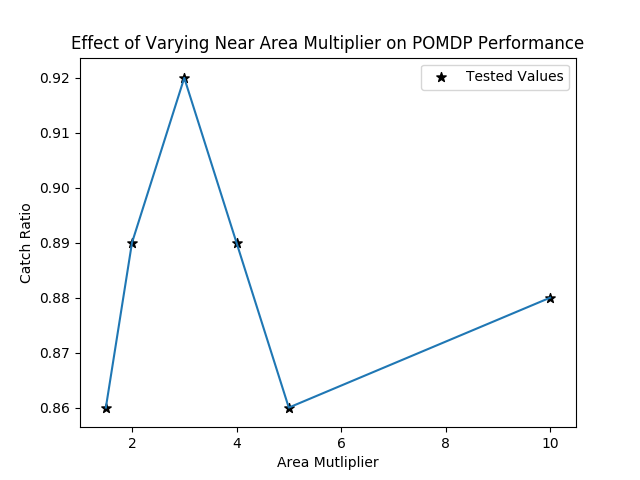
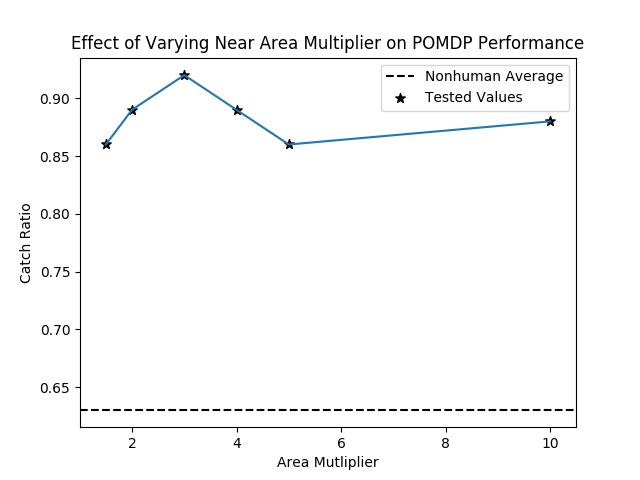
finalizing data

diff --git a/src/dataCheck.py b/src/dataCheck.py
@@ -70,6 +70,7 @@ def poisCheck():
     plt.ylabel('Ratio of Captures to Total Runs'); 
     plt.xlabel('Poisson Mean'); 
     plt.title("Effect of Varying Poisson Means on POMDP Performance"); 
+    plt.axhline(0.63, linestyle='--',color='black',label='Nonhuman Average')
     plt.legend(); 
     plt.savefig('../figs/poisson_graph.png'); 
 
@@ -152,6 +153,7 @@ def amultCheck():
     plt.ylabel('Catch Ratio'); 
     plt.xlabel('Area Mutliplier'); 
     plt.title("Effect of Varying Near Area Multiplier on POMDP Performance"); 
+    plt.axhline(0.63, linestyle='--',color='black',label='Nonhuman Average')
     plt.legend(); 
     plt.savefig('../figs/areaMult_graph.png'); 
 
@@ -236,6 +238,7 @@ def sketchRateCheck():
     plt.xticks([15,30,60,120,240],[15,30,60,120,'inf']); 
     plt.ylabel('Catch Ratio'); 
     plt.xlabel('Sketch Rate (s)'); 
+    plt.axhline(0.63, linestyle='--',color='black',label='Nonhuman Average')
     plt.title("Effect of Varying Sketch Rate on POMDP Performance"); 
     plt.legend(); 
     plt.savefig('../figs/sketchRate_graph.png'); 
@@ -360,6 +363,7 @@ def accuracyDataCheck():
     ax.set_xlabel('Actual Accuracy'); 
     ax.set_ylabel("Capture Rate"); 
     plt.title("Average effect of Human Accuracy on Capture Rate"); 
+    ax.axhline(0.63, linestyle='--',color='black',label='Nonhuman Average')
     plt.legend(); 
     plt.savefig('../figs/acc_true.png')
 
@@ -376,6 +380,7 @@ def accuracyDataCheck():
     ax.set_ylabel("Capture Rate"); 
     ax.set_xlabel("Assumed Accuracy"); 
     plt.title("Average Effect of Assumed Accuracy on Capture Rate")
+    ax.axhline(0.63, linestyle='--',color='black',label='Nonhuman Average')
     plt.legend(); 
     plt.savefig('../figs/acc_think.png'); 
 
@@ -387,6 +392,7 @@ def accuracyDataCheck():
     ax.scatter(rangX,tmp,s=50,marker='*',color='black', label='Tested Values'); 
     ax.set_xlabel("Matched Accuracy"); 
     ax.set_ylabel("Catch Rate"); 
+    ax.axhline(0.63, linestyle='--',color='black',label='Nonhuman Average')
     plt.legend(); 
     plt.title("Effect of Matched Accuracy on Capture Rate"); 
     plt.savefig('../figs/acc_matched.png'); 
@@ -473,6 +479,7 @@ def availabilityDataCheck():
     ax.scatter(rangX,tmp,s=50,marker='*',color='black', label='Tested Values'); 
     ax.set_xlabel('Actual Availability'); 
     ax.set_ylabel("Capture Rate"); 
+    ax.axhline(0.63, linestyle='--',color='black',label='Nonhuman Average')
     plt.title("Average effect of Human Availability on Capture Rate"); 
     plt.legend(); 
     plt.savefig('../figs/avail_true.png')
@@ -489,64 +496,66 @@ def availabilityDataCheck():
     ax.scatter(rangX,tmp,s=50,marker='*',color='black', label='Tested Values'); 
     ax.set_ylabel("Capture Rate"); 
     ax.set_xlabel("Assumed Availability"); 
+    ax.axhline(0.63, linestyle='--',color='black',label='Nonhuman Average')
     plt.title("Average Effect of Assumed Availability on Capture Rate")
     plt.legend(); 
     plt.savefig('../figs/avail_think.png'); 
 
-    # fig,ax = plt.subplots(); 
-    # tmp = []; 
-    # for i in range(0,5):
-    #     tmp.append(x[i][i]); 
-    # ax.plot(rangX,tmp); 
-    # ax.scatter(rangX,tmp,s=50,marker='*',color='black', label='Tested Values'); 
-    # ax.set_xlabel("Matched Availability"); 
-    # ax.set_ylabel("Catch Rate"); 
-    # plt.legend(); 
-    # plt.title("Effect of Matched Availability on Capture Rate"); 
-    # plt.savefig('../figs/avail_matched.png'); 
+    fig,ax = plt.subplots(); 
+    tmp = []; 
+    for i in range(0,5):
+        tmp.append(x[i][i]); 
+    ax.plot(rangX,tmp); 
+    ax.scatter(rangX,tmp,s=50,marker='*',color='black', label='Tested Values'); 
+    ax.set_xlabel("Matched Availability"); 
+    ax.set_ylabel("Catch Rate"); 
+    ax.axhline(0.63, linestyle='--',color='black',label='Nonhuman Average')
+    plt.legend(); 
+    plt.title("Effect of Matched Availability on Capture Rate"); 
+    plt.savefig('../figs/avail_matched.png'); 
 
 
 
-    # plt.figure(); 
-    # allSigX = []; 
-    # allSigY = []; 
-    # allTests = np.zeros(shape=(5,5)); 
-    # for i in range(0,5):
-    #     for j in range(0,i):
-    #         allTests[i,j] = stats.binom_test(tmp[i]*100,n=100,p=tmp[j]); 
-    #         if(allTests[i,j] < 0.05):
-    #             allSigX.append(j); 
-    #             allSigY.append(i); 
-    #     for j in range(i,5):
-    #         allTests[i,j] = np.nan; 
+    plt.figure(); 
+    allSigX = []; 
+    allSigY = []; 
+    allTests = np.zeros(shape=(5,5)); 
+    for i in range(0,5):
+        for j in range(0,i):
+            allTests[i,j] = stats.binom_test(tmp[i]*100,n=100,p=tmp[j]); 
+            if(allTests[i,j] < 0.05):
+                allSigX.append(j); 
+                allSigY.append(i); 
+        for j in range(i,5):
+            allTests[i,j] = np.nan; 
 
-    #     allTests[i,i] = np.nan; 
-    # plt.imshow(allTests,vmax=1.0,vmin=0);
-    # plt.yticks([0,1,2,3,4],[.3,.5,.7,.9,.95]); 
-    # plt.xticks([0,1,2,3,4],[.3,.5,.7,.9,.95]); 
-    # plt.colorbar(); 
-    # for i in range(0,5):
-    #     for j in range(0,i):
-    #         if(allTests[i,j] != np.nan):
-    #             tmp = str(allTests[i,j]); 
-    #             tmp = tmp[0:5];
-    #             if(allTests[i,j] < 0.001):
-    #                 tmp = "<0.001"; 
-    #             if(allTests[i,j] < 0.05):
-    #                 tmp = tmp+'*'; 
-    #                 if(allTests[i,j] < 0.01):
-    #                     tmp = tmp+'*'; 
-    #                     if(allTests[i,j] < 0.001):
-    #                         tmp = tmp+'*'; 
+        allTests[i,i] = np.nan; 
+    plt.imshow(allTests,vmax=1.0,vmin=0);
+    plt.yticks([0,1,2,3,4],[.3,.5,.7,.9,.95]); 
+    plt.xticks([0,1,2,3,4],[.3,.5,.7,.9,.95]); 
+    plt.colorbar(); 
+    for i in range(0,5):
+        for j in range(0,i):
+            if(allTests[i,j] != np.nan):
+                tmp = str(allTests[i,j]); 
+                tmp = tmp[0:5];
+                if(allTests[i,j] < 0.001):
+                    tmp = "<0.001"; 
+                if(allTests[i,j] < 0.05):
+                    tmp = tmp+'*'; 
+                    if(allTests[i,j] < 0.01):
+                        tmp = tmp+'*'; 
+                        if(allTests[i,j] < 0.001):
+                            tmp = tmp+'*'; 
 
-    #             plt.text(j,i+0.25,tmp,fontsize=10,verticalalignment = 'center',horizontalalignment='center',color='red'); 
-    # plt.scatter(allSigX,allSigY,marker='*',s=50, color='red',label='Significant p<0.05')
-    # plt.xlabel("Tested Values"); 
-    # plt.ylabel("Tested Values")
-    # plt.axis('tight'); 
-    # plt.title("Binomial Significance of Matched Availability"); 
-    # plt.legend();
-    # plt.savefig('../figs/avail_matched_sig.png'); 
+                plt.text(j,i+0.25,tmp,fontsize=10,verticalalignment = 'center',horizontalalignment='center',color='red'); 
+    plt.scatter(allSigX,allSigY,marker='*',s=50, color='red',label='Significant p<0.05')
+    plt.xlabel("Tested Values"); 
+    plt.ylabel("Tested Values")
+    plt.axis('tight'); 
+    plt.title("Binomial Significance of Matched Availability"); 
+    plt.legend();
+    plt.savefig('../figs/avail_matched_sig.png'); 
 
 
 def predictiveObsPlanningExtract():
@@ -584,6 +593,9 @@ def predictiveObsPlanningCheck():
     #plt.scatter(x,allRatio,s=50,marker='*',color='black'); 
     #plt.xticks([15,30,60,120,240],[15,30,60,120,'inf']); 
     plt.bar([0,1],allRatio,color=['red','blue'],edgecolor='black',linewidth=2); 
+    plt.text(0,allRatio[0]+0.012,str(allRatio[0]),verticalalignment = 'center',horizontalalignment = 'center'); 
+    plt.text(1,allRatio[1]+0.012,str(allRatio[1]),verticalalignment = 'center',horizontalalignment = 'center'); 
+    
     plt.ylabel('Catch Ratio'); 
     #plt.xlabel('Sketch Rate (s)'); 
     plt.xticks([0,1],['Blind','Predictive']); 
@@ -597,6 +609,62 @@ def predictiveObsPlanningCheck():
     plt.title("Significance of Predictive Tree Planning: {0:.2f}".format(test)); 
     plt.savefig('../figs/predictive_sig.png'); 
     #plt.show();
+
+def humanDataExtract():
+    allDat = []; 
+
+    print("Extracting data for human test"); 
+
+    mults = ['Human_Long','NonHuman_Long']
+
+    for po in mults:
+        print("Plan: {}".format(po)); 
+        allCatchTimes = []; 
+        for i in range(0,100):
+            #print(i); 
+            data = np.load('../data/{}/{}_{}.npy'.format(po,po,i), allow_pickle=True).item(); 
+            if(data['Captured'] == True):
+                allCatchTimes.append(data['TotalTime']); 
+            del data
+        allDat.append(allCatchTimes); 
+    np.save('../data/human_nonhuman_small.npy',allDat);
+
+
+def humanDataCheck():
+
+    plt.figure(); 
+    data = np.load('../data/human_nonhuman_small.npy',allow_pickle=True)
+    allAves = []; 
+    allSD = []; 
+    allRatio = [];  
+    for d in data:
+        allAves.append(np.mean(d)); 
+        allSD.append(np.std(d)); 
+        allRatio.append(len(d)/100); 
+
+    #x = [1.5,2,3,4,5,10];
+    #x = [15,30,60,120,240];  
+    #plt.plot(x,allRatio);
+    #plt.scatter(x,allRatio,s=50,marker='*',color='black'); 
+    #plt.xticks([15,30,60,120,240],[15,30,60,120,'inf']); 
+    plt.bar([0,1],allRatio,color=['blue','red'],edgecolor='black',linewidth=2); 
+    plt.text(0,allRatio[0]+0.012,str(allRatio[0]),verticalalignment = 'center',horizontalalignment = 'center'); 
+    plt.text(1,allRatio[1]+0.012,str(allRatio[1]),verticalalignment = 'center',horizontalalignment = 'center'); 
+    
+    plt.ylabel('Catch Ratio'); 
+    #plt.xlabel('Sketch Rate (s)'); 
+    plt.xticks([0,1],['Human','Nonhuman']); 
+    
+    
+
+
+    test = stats.binom_test(allRatio[0]*100,n=100,p=allRatio[1]); 
+
+    #print("Binomial Significance of Human Involvement: {}".format(test));
+    if(test < 0.001):
+        test = 'p<0.001'; 
+    plt.title("Significance of Human Involvement: {}".format(test)); 
+    plt.savefig('../figs/human_sig.png'); 
 
 if __name__ == '__main__':
     #poisExtract(); 
@@ -615,3 +683,6 @@ if __name__ == '__main__':
 
     #predictiveObsPlanningExtract(); 
     predictiveObsPlanningCheck(); 
+
+    #humanDataExtract(); 
+    humanDataCheck(); 
